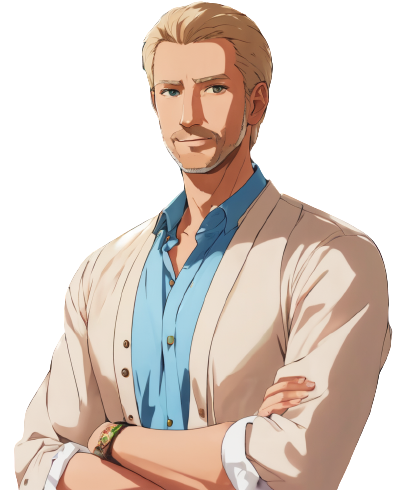
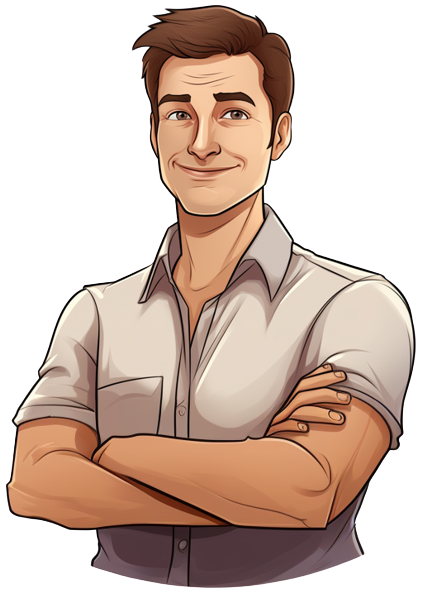
fixed a few mobile responsive issues within the about section.  Added new hero image.

diff --git a/src/components/About/about.css b/src/components/About/about.css
@@ -7,6 +7,7 @@
     margin: 1rem auto 0 auto;
     overflow: hidden;
     position: relative;
+    min-height: 900px;
 }
 
 .hero {
@@ -16,6 +17,7 @@
     right: 40px;
     object-fit: cover;
     height: 100vh;
+    min-height: 700px;
 
 }
 
@@ -29,7 +31,7 @@
     flex-direction: column;
     justify-content: center;
     text-shadow: 2px 2px 5px black;
-    
+    min-height: 900px;
 }
 
 .introTitle {
@@ -92,12 +94,16 @@
 
 }
 
-@media screen and (max-width:500px) {
-
+@media screen and (max-width:720px) {
     .hero{
         right: -200px;
 
     }
+}
+
+@media screen and (max-width:500px) {
+
+    
     .introContent {
         width: 100vw;
         text-shadow: 2px 2px 5px black;
